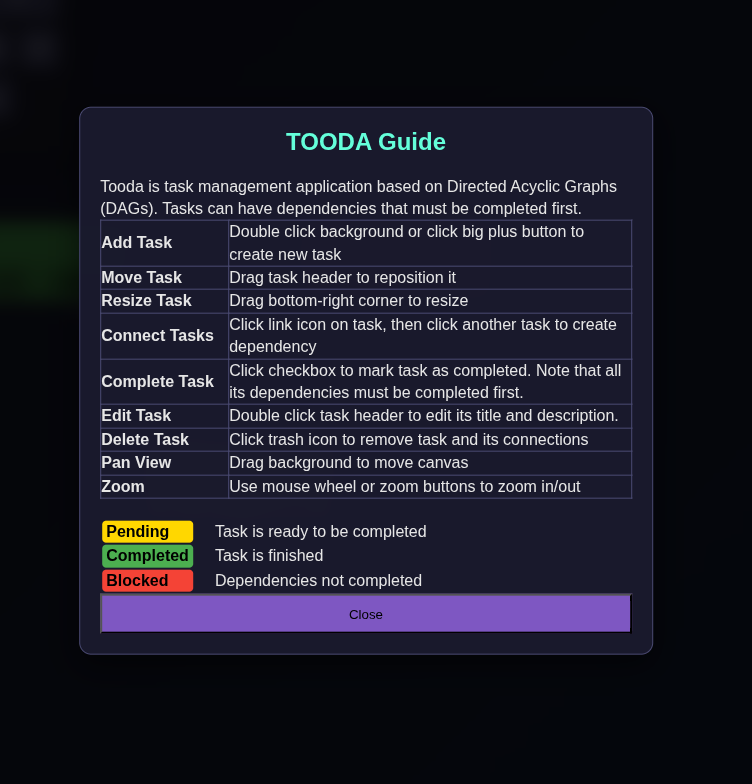
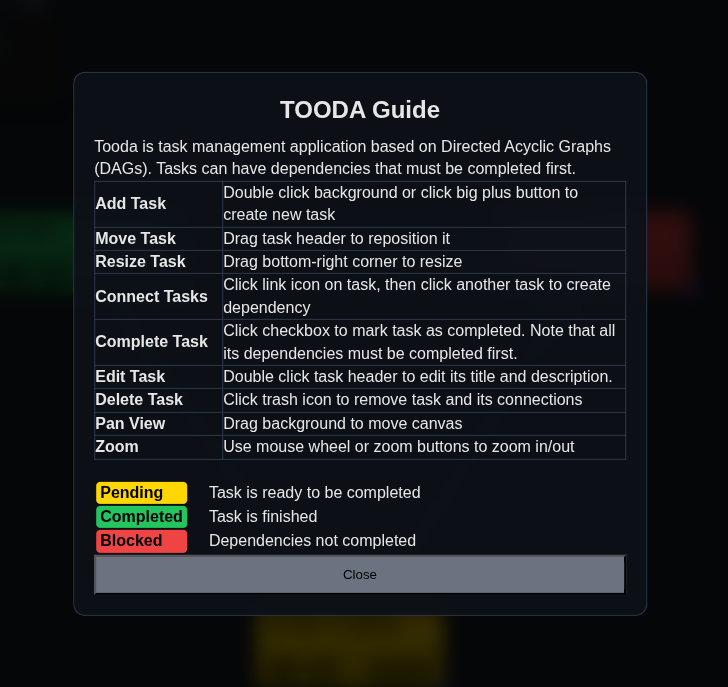
master: update color theme

Changed region(s): [[0.0907, 0.1223, 0.8764, 1.0], [0.8764, 0.3057, 0.967, 0.4279]]

diff --git a/src/assets/main.css b/src/assets/main.css
@@ -1,22 +1,21 @@
 body {
-  --background: #16213e;
+  --background: #161c26;
   --foreground: #e6e6e6;
-  --modal-bg: rgba(26, 26, 46, 0.95);
-  --modal-border: #4a4a72;
 
-  --menu-button-bg: #4a4a72;
-  --menu-button-bg-hover: #5a5a8a;
-  --menu-button-fg: white;
-  --help-button-bg: #00b4d8;
-  --help-button-bg-hover: #0096c7;
-  --modal-close-button-bg: rgb(120, 120, 170);
-  --modal-close-button-bg-hover: #9595cd;
+  --modal-bg: rgba(13, 17, 23, 0.95);
+  --modal-border: #2d3748;
+  --modal-close-button-bg: #6b7280;
+  --modal-close-button-bg-hover: #9ca3af;
+
+  --menu-button-bg: #1f2937;
+  --menu-button-bg-hover: #374151;
+  --menu-button-fg: #f9fafb;
 
   --task-border: #333;
   --task-fg: black;
-  --task-blocked-bg: #f44336;
+  --task-blocked-bg: #ef4444;
   --task-pending-bg: #ffd700;
-  --task-completed-bg: #4caf50;
-  --task-edge: #7e57c2;
-  --task-edge-connecting: #64ffda;
+  --task-completed-bg: #22c55e;
+  --task-edge: #464399;
+  --task-edge-connecting: #06b6d4;
 }

diff --git a/src/App.vue b/src/App.vue
@@ -306,7 +306,7 @@ function promptInput(value: string): string {
           refY="3.5"
           orient="auto"
         >
-          <polygon points="0 0, 10 3.5, 0 7" fill="#7e57c2" />
+          <polygon points="0 0, 10 3.5, 0 7" fill="var(--task-edge)" />
         </marker>
       </defs>
       <line
@@ -452,13 +452,13 @@ body {
 .btn-group-2 {
   display: flex;
   flex-direction: row;
-  gap: 10px;
+  gap: 8px;
 }
 
 .btn-group {
   display: flex;
   flex-direction: column;
-  gap: 10px;
+  gap: 8px;
   position: absolute;
   top: 20px;
   left: 20px;
@@ -476,6 +476,7 @@ button {
   color: var(--menu-button-fg);
   border: none;
   padding: 10px;
+  max-height: 40px;
   border-radius: 6px;
   cursor: pointer;
   font-weight: 500;
@@ -490,12 +491,8 @@ button:hover {
 }
 
 #help-btn {
-  width: 44px;
-  background: var(--help-button-bg);
-}
-
-#help-btn:hover {
-  background: var(--help-button-bg-hover);
+  width: 40px;
+  height: 40px;
 }
 
 #dag-svg {
